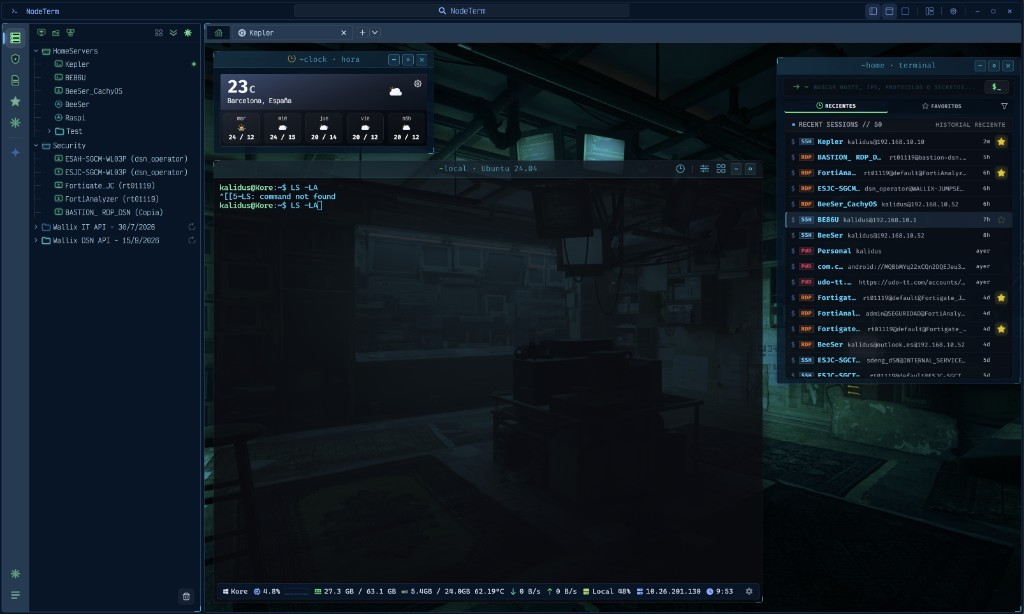
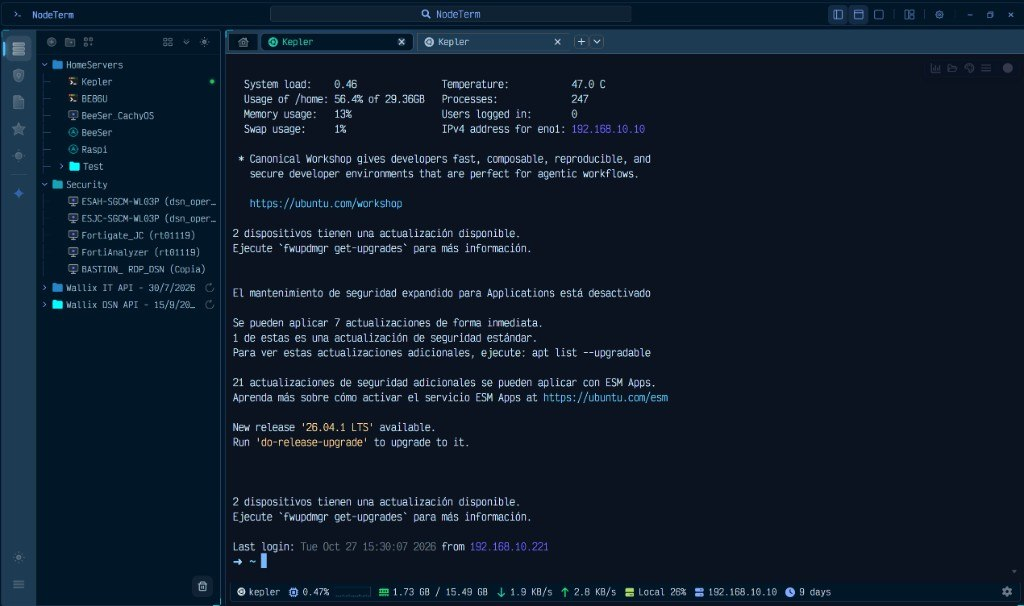
feat(website): refresh landing screenshot with SSH session view
Use a clearer NodeTerm session capture for the hero and Open Graph image.

diff --git a/website/site.js b/website/site.js
@@ -23,7 +23,7 @@
       'hero.version': 'Última versión',
       'hero.download': 'Descargar',
       'hero.github': 'Ver en GitHub',
-      'shot.alt': 'Pantalla de inicio de NodeTerm con widgets, terminal y paneles flotantes',
+      'shot.alt': 'Sesión SSH de NodeTerm con sidebar, pestañas y barra de estado',
       'features.title': 'Hecho para el trabajo diario',
       'features.lead': 'Un solo sitio para entrar a los servidores, guardar las credenciales y dejar que un agente ayude sin ver las contraseñas.',
       'f1.title': 'SSH, RDP, VNC y SFTP',
@@ -84,7 +84,7 @@
       'hero.version': 'Latest version',
       'hero.download': 'Download',
       'hero.github': 'View on GitHub',
-      'shot.alt': 'NodeTerm home screen with widgets, terminal, and floating panels',
+      'shot.alt': 'NodeTerm SSH session with sidebar, tabs, and status bar',
       'features.title': 'Built for daily work',
       'features.lead': 'One place to reach servers, store credentials, and let an agent help without seeing passwords.',
       'f1.title': 'SSH, RDP, VNC, and SFTP',

diff --git a/website/index.html b/website/index.html
@@ -66,7 +66,7 @@
         </ul>
       </div>
       <figure class="shot">
-        <img src="assets/screenshot-home.jpg" width="1024" height="614" data-i18n-alt="shot.alt" alt="Pantalla de inicio de NodeTerm con widgets, terminal y paneles flotantes">
+        <img src="assets/screenshot-home.jpg" width="1024" height="606" data-i18n-alt="shot.alt" alt="Sesión SSH de NodeTerm con sidebar, pestañas y barra de estado">
       </figure>
     </div>
 
